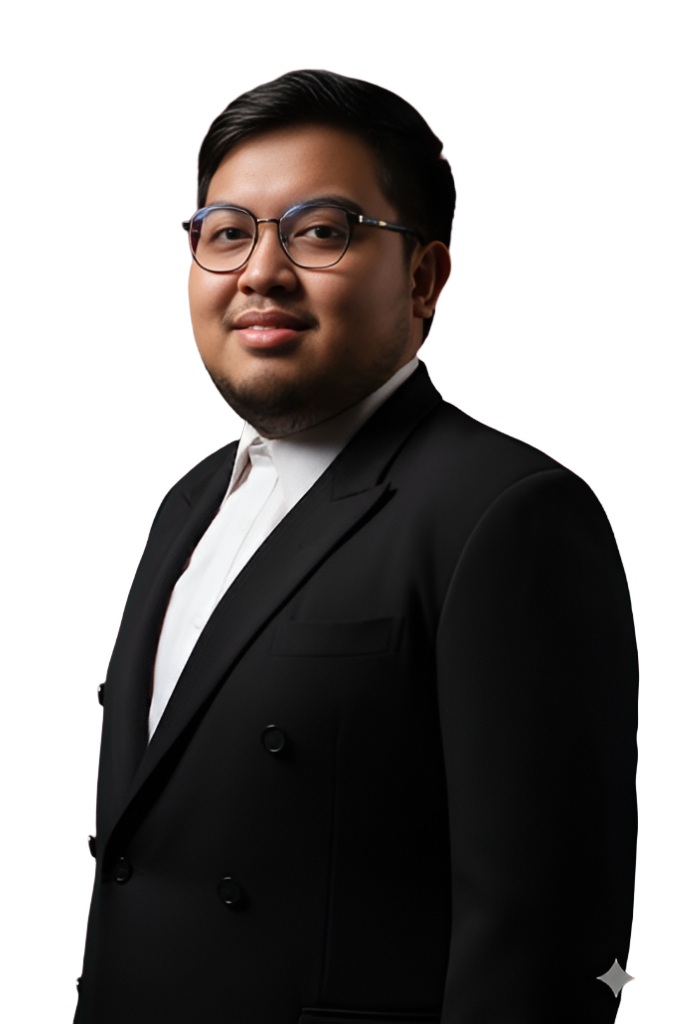
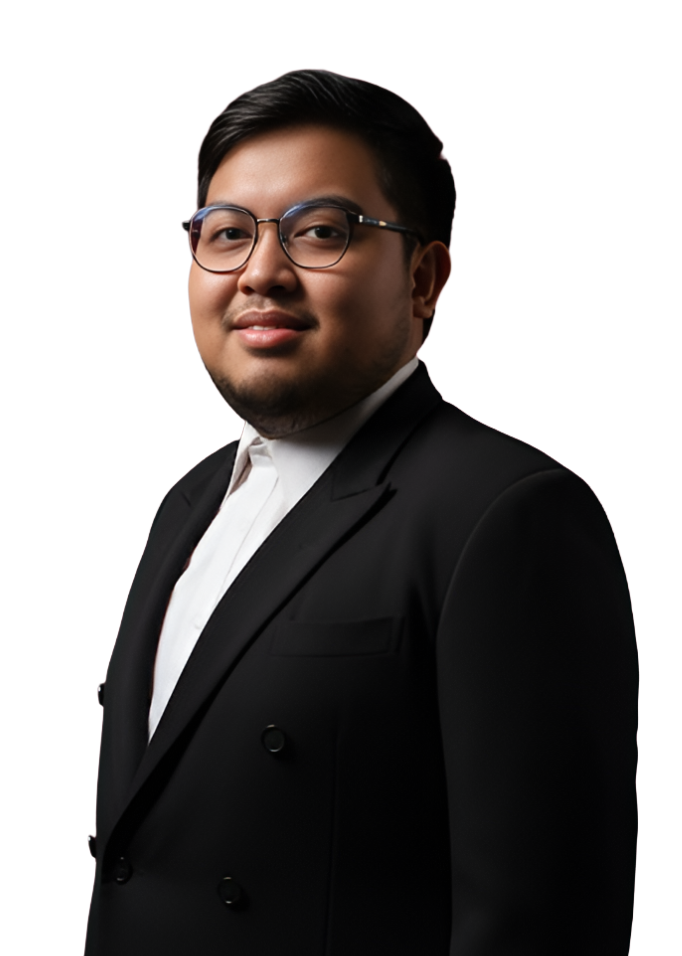
update resources and profile picture

diff --git a/data/contact.ts b/data/contact.ts
@@ -24,7 +24,7 @@ export const contactInfo: IContactInfo = {
   location: "Jakarta - Indonesia",
   timezone: "WIB (UTC+7)",
   bio: "Available for consulting and collaboration. Let's build something amazing together!",
-  profileImage: "/images/profile.jpg",
+  profileImage: "/images/profile-picture.png",
   socialLinks: [
     {
       platform: "LinkedIn",
